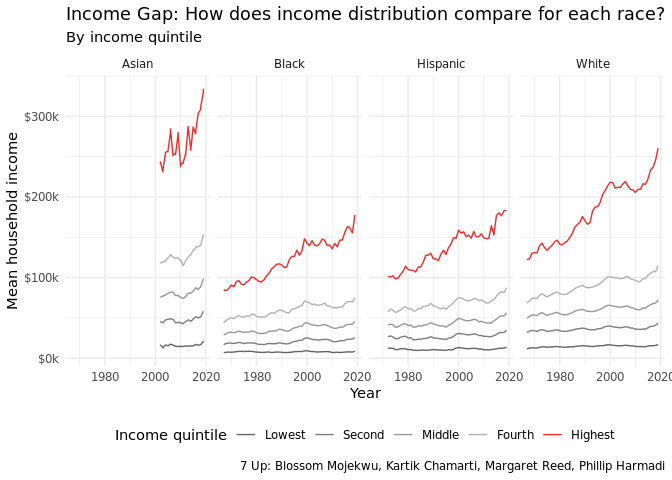
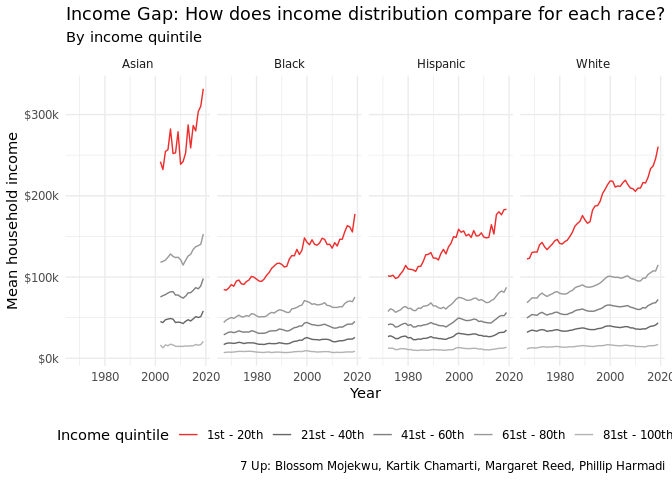
added percentages

diff --git a/extra-md/final-viz.md b/extra-md/final-viz.md
@@ -4,11 +4,12 @@ Final Viz
 ``` r
 library(tidyverse)
 library(viridis)
+library(dplyr)
 # library(gganimate)
 ```
 
 ``` r
-income_mean <- read.csv(file = "../data/income_mean.csv")
+income_mean <- read_csv(file = "../data/income_mean.csv")
 home_owner <- read_csv(file = "../data/home_owner.csv")
 ```
 
@@ -66,21 +67,44 @@ home_owner %>%
 
 ### Question 2
 
-#### Plot 2.a
-
 ``` r
-income_mean %>%
+income_mean <- income_mean %>%
   filter(!str_detect(race, "Combination"),
          !str_detect(race, "Not Hispanic"),
          !str_detect(race, "All"),
          dollar_type == "2019 Dollars",
          income_quintile != "Top 5%") %>%
+  group_by(year, race, income_quintile) %>%
+  summarize(income_dollars =  mean(income_dollars)) %>%
   mutate(race = str_remove(race, ',?\\s(.*)'),
          income_quintile = ordered(income_quintile, c("Lowest", "Second", 
                                                       "Middle", "Fourth", 
-                                                      "Highest"))) %>%
+                                                      "Highest")),
+      income_percentile = case_when(
+      income_quintile == "Top 5%"   ~ "1st - 5th",
+      income_quintile == "Highest"  ~ "1st - 20th",
+      income_quintile == "Second"   ~ "21st - 40th",
+      income_quintile == "Middle"   ~ "41st - 60th",
+      income_quintile == "Fourth"   ~ "61st - 80th",
+      income_quintile == "Lowest"   ~ "81st - 100th"))
+```
+
+    ## `summarise()` has grouped output by 'year', 'race'. You can override using the `.groups` argument.
+
+``` r
+highest_perc_table <- income_mean %>%
+  filter(year == 2019) %>%
+  group_by(race) %>%
+  transmute(income_quintile, percent = income_dollars/sum(income_dollars)) %>%
+  filter(income_quintile == "Highest")
+```
+
+#### Plot 2.a
+
+``` r
+income_mean %>%
   ggplot(
-    aes(x = year, y = income_dollars, color = income_quintile)
+    aes(x = year, y = income_dollars, color = income_percentile)
   ) +
   geom_line() +
   facet_wrap(.~race, nrow = 1) +
@@ -88,7 +112,7 @@ income_mean %>%
                                                    scale = 0.001, 
                                                    suffix = "k",
                                                    prefix = "$")) +
-  scale_color_manual(values = c("grey40", "grey50", "grey60", "grey70", "firebrick2")) +
+  scale_color_manual(values = c("firebrick2", "grey40", "grey50", "grey60", "grey70")) +
   labs(
     title = "Income Gap: How does income distribution compare for each race?",
     subtitle = "By income quintile",
@@ -101,3 +125,30 @@ income_mean %>%
 ```
 
 ![](final-viz_files/figure-gfm/plot-2a-1.png)<!-- -->
+
+#### Plot 2.b
+
+``` r
+income_mean %>%
+  filter(year == 2019) %>%
+  ggplot(mapping = aes(x = income_dollars, 
+             y = reorder(race, desc(race)),
+             width = 0.35)) + 
+  geom_bar(position = "fill", stat = "identity", aes(fill = income_percentile)) +
+  geom_text(data = highest_perc_table, aes(y = race, label = round(percent, 2)),
+            x = 0.8, color = "white") +
+  scale_fill_brewer(type = "seq", palette = "Blues", direction = -1) +
+  labs(
+    title = "Income Gap: How much do top households earn compared to bottom households \nfor each race?",
+    subtitle = "By income quintile",
+    x = "Percent of total mean income", y = "Race", 
+    fill = "Income Quintile",
+    caption = "7 Up: Blossom Mojekwu, Kartik Chamarti, Margaret Reed, Phillip Harmadi"
+    ) +
+  scale_colour_viridis_d() +
+  scale_x_continuous(labels = scales::percent_format(scale = 100)) +
+  theme_minimal(base_size = 10) +
+  theme(text = element_text(size = 9))
+```
+
+![](final-viz_files/figure-gfm/plot-2b-1.png)<!-- -->
